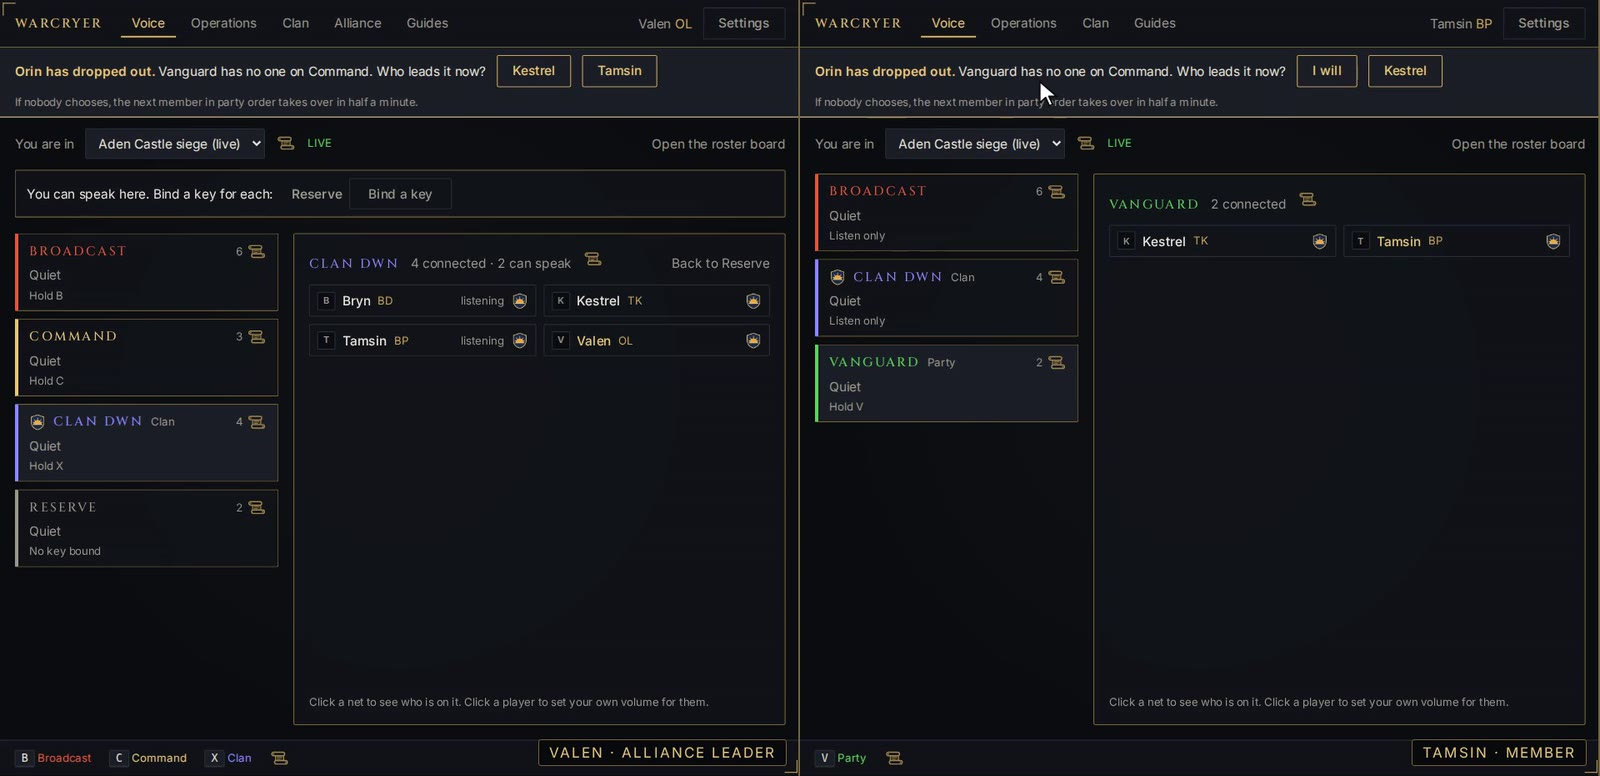
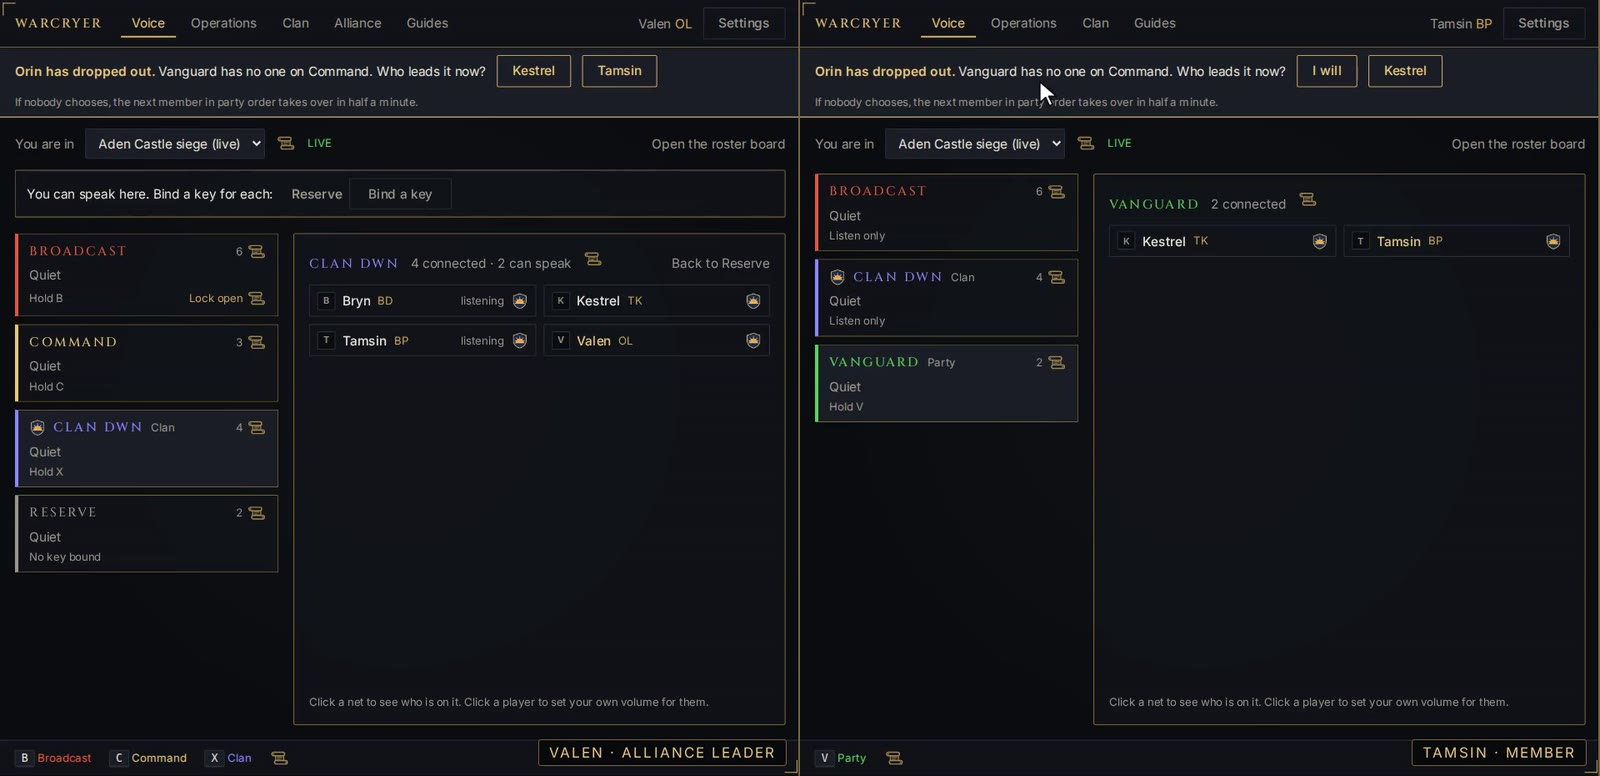
The compact strip, briefings and the log; fresh screenshots
Claude-Session: https://claude.ai/code/session_01DWJgyuiwrFFG25WQs1oJDc

Changed region(s): [[0.0, 0.3711, 0.1875, 0.7423]]

diff --git a/index.html b/index.html
@@ -103,12 +103,25 @@
       <p>After thirty seconds more the next member in party order is promoted automatically. The new leader is told, and is on Command at once.</p>
     </div>
   </div>
+
+  <div class="split">
+    <div>
+      <h3>See who is talking without leaving the game</h3>
+      <p>The compact strip is a small window that stays on top of others: one line for each net with someone speaking, with the speaker's crest and name, and "You" while your own mic is open.</p>
+      <h3>A window, not an overlay</h3>
+      <p>It is an ordinary window you drag where you like. Nothing is drawn into the game and nothing is read from it, so it sits over a game in windowed or borderless mode.</p>
+    </div>
+    <figure>
+      <img src="shots/strip.jpg" alt="The voice screen with the compact strip floating over it, enlarged: a single line reading Broadcast, a clan crest and the name Morrigan" width="1600" height="775" loading="lazy">
+      <figcaption>The compact strip, enlarged here, while a deputy speaks on Broadcast.</figcaption>
+    </figure>
+  </div>
 </section>
 
 <section id="leaders">
   <h2>Run the alliance from the same window</h2>
   <p class="intro">No bouncing between a website, a spreadsheet and a voice app. Each screen offers only what your role allows, and the server checks every action again.</p>
-  <div class="cards three">
+  <div class="cards">
     <article>
       <h3>Operations</h3>
       <p>Create a siege or raid, choose the clans taking part, build parties on a drag-and-drop board, then go live. Everyone on the roster is pulled into their nets at once.</p>
@@ -132,6 +145,14 @@
     <article>
       <h3>Moves that stick</h3>
       <p>Move a player mid-fight and their audio follows. Send someone to Reserve, hand over a party, appoint a deputy: voice rights change with the role.</p>
+    </article>
+    <article>
+      <h3>Briefings</h3>
+      <p>The event leader can lock Broadcast open and talk without holding a key. A bar across the app says everyone is listening, and it releases itself if forgotten.</p>
+    </article>
+    <article>
+      <h3>The log</h3>
+      <p>Every approval, move, role change and ban is recorded with who did it, and readable in plain sentences: all of it for alliance admins, their own clan's part for clan leaders.</p>
     </article>
   </div>
   <figure class="wide">
